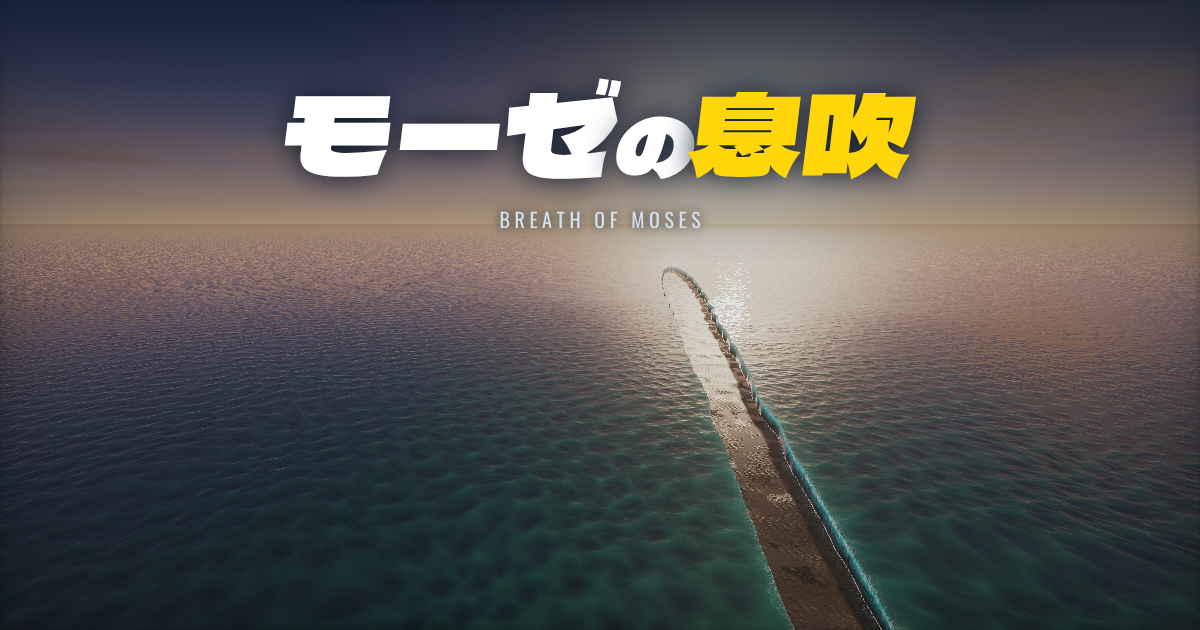
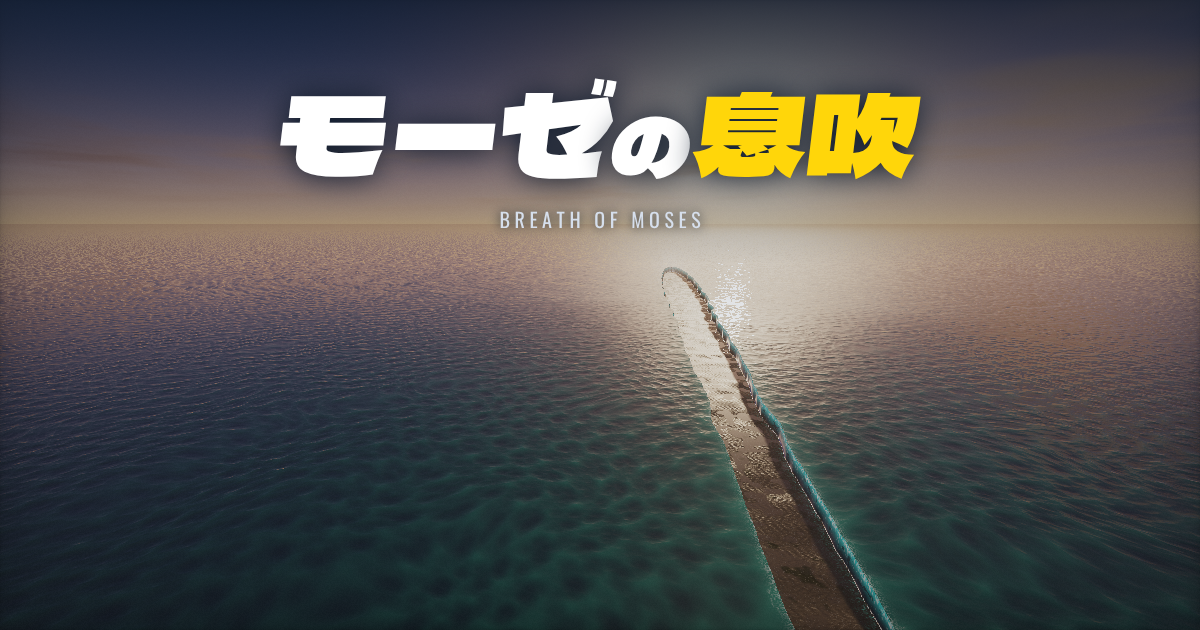
モーゼの息吹：「の」と「息」の間を少し戻す
Claude-Session: https://claude.ai/code/session_01XJ9ANvvZGtAMuXvwoba9Cf

diff --git a/public/apps/moses-ibuki/style.css b/public/apps/moses-ibuki/style.css
@@ -35,7 +35,7 @@ main{position:fixed;inset:0;z-index:3;pointer-events:none}.screen{pointer-events
 .title-screen{height:100%;padding:clamp(70px,12svh,140px) 22px var(--bottom);display:flex;flex-direction:column;align-items:center;justify-content:space-between}
 .title-block{display:flex;flex-direction:column;align-items:center;gap:8px;width:100%}
 .title-screen h1{font:400 64px/1.2 var(--logo);letter-spacing:-.03em;transform:skewX(-7deg);text-shadow:0 3px 0 #0e1a2b66,0 8px 38px #0e1a2b99;display:flex;flex-direction:row;align-items:baseline;justify-content:center;white-space:nowrap;gap:.08em;max-width:100%}
-.title-screen h1 small{font-size:1em;color:#fff}.title-screen h1 .no,#boot .no{font-size:.72em;letter-spacing:0;margin-right:-.04em}
+.title-screen h1 small{font-size:1em;color:#fff}.title-screen h1 .no,#boot .no{font-size:.72em;letter-spacing:0;margin-right:.01em}
 html[lang=ja] .title-screen h1{gap:0}.title-screen h1 em{font-style:normal;color:var(--sun)}
 html:is([lang=zh-Hans],[lang=zh-Hant],[lang=ko]) .title-screen h1{font-weight:900}
 html:not([lang=ja]):not([lang^=zh]) .title-screen h1{gap:.3em}

diff --git a/public/apps/moses-ibuki/share.js b/public/apps/moses-ibuki/share.js
@@ -42,7 +42,7 @@ export function makeResultCard(scene, r) {
   let x0 = 76; c.fillStyle = '#fff';
   if (tA.endsWith('の')) {
     const head = tA.slice(0, -1); c.fillText(head, x0, 146); x0 += c.measureText(head).width;
-    const f0 = c.font; c.font = f0.replace(/\d+px/, Math.round(fs * NO_SCALE) + 'px'); c.fillText('の', x0, 146); x0 += c.measureText('の').width - fs * 0.07; c.font = f0;
+    const f0 = c.font; c.font = f0.replace(/\d+px/, Math.round(fs * NO_SCALE) + 'px'); c.fillText('の', x0, 146); x0 += c.measureText('の').width - fs * 0.02; c.font = f0;
   } else { c.fillText(tA, x0, 146); x0 += c.measureText(tA).width + (/[a-z가-힣]/i.test(tA) ? fs * 0.25 : 2); }
   c.fillStyle = '#ffd60a'; c.fillText(tB, x0, 146);
   c.restore();
